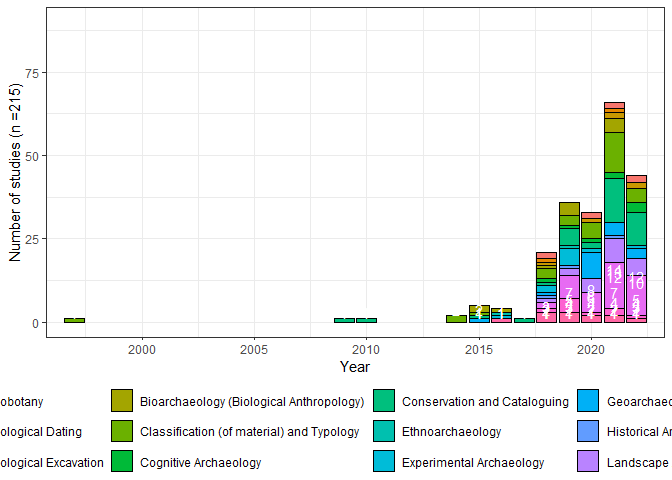
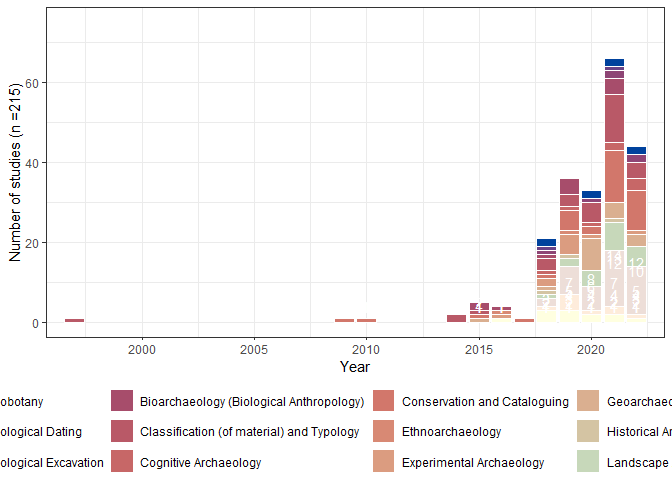
Update_09_10_2024

diff --git a/02 - Graphs.md b/02 - Graphs.md
@@ -3,8 +3,6 @@ Graphic from article
 Mathias Bellat
 July, 23, 2024
 
-**All the path and file names are personal and can no be access**
-
 # 00 Preparation
 
 ``` r
@@ -34,7 +32,7 @@ sessionInfo()
 
     ## R version 4.4.0 (2024-04-24 ucrt)
     ## Platform: x86_64-w64-mingw32/x64
-    ## Running under: Windows 11 x64 (build 22631)
+    ## Running under: Windows 10 x64 (build 19045)
     ## 
     ## Matrix products: default
     ## 
@@ -44,31 +42,32 @@ sessionInfo()
     ## [3] LC_MONETARY=French_France.utf8 LC_NUMERIC=C                  
     ## [5] LC_TIME=French_France.utf8    
     ## 
-    ## time zone: Europe/Paris
+    ## time zone: Europe/Berlin
     ## tzcode source: internal
     ## 
     ## attached base packages:
     ## [1] stats     graphics  grDevices utils     datasets  methods   base     
     ## 
     ## other attached packages:
-    ##  [1] knitr_1.47          RColorBrewer_1.1-3  rnaturalearth_1.0.1
-    ##  [4] readxl_1.4.3        tibble_3.2.1        plyr_1.8.9         
-    ##  [7] stringr_1.5.1       ggalluvial_0.12.5   ggplot2_3.5.1      
-    ## [10] readr_2.1.5         dplyr_1.1.4        
+    ##  [1] RColorBrewer_1.1-3  rnaturalearth_1.0.1 tibble_3.2.1       
+    ##  [4] plyr_1.8.9          stringr_1.5.1       ggalluvial_0.12.5  
+    ##  [7] ggplot2_3.5.1       readr_2.1.5         dplyr_1.1.4        
+    ## [10] pacman_0.5.1       
     ## 
     ## loaded via a namespace (and not attached):
     ##  [1] utf8_1.2.4         generics_0.1.3     class_7.3-22       KernSmooth_2.23-22
-    ##  [5] stringi_1.8.4      hms_1.1.3          digest_0.6.35      magrittr_2.0.3    
-    ##  [9] evaluate_0.24.0    grid_4.4.0         fastmap_1.2.0      cellranger_1.1.0  
-    ## [13] jsonlite_1.8.8     e1071_1.7-14       DBI_1.2.2          httr_1.4.7        
-    ## [17] fansi_1.0.6        scales_1.3.0       codetools_0.2-20   cli_3.6.2         
-    ## [21] rlang_1.1.3        units_0.8-5        munsell_0.5.1      withr_3.0.0       
-    ## [25] yaml_2.3.8         tools_4.4.0        tzdb_0.4.0         colorspace_2.1-0  
-    ## [29] vctrs_0.6.5        R6_2.5.1           proxy_0.4-27       lifecycle_1.0.4   
-    ## [33] classInt_0.4-10    pkgconfig_2.0.3    terra_1.7-78       pillar_1.9.0      
-    ## [37] gtable_0.3.5       glue_1.7.0         Rcpp_1.0.12        sf_1.0-16         
-    ## [41] xfun_0.45          tidyselect_1.2.1   htmltools_0.5.8.1  rmarkdown_2.27    
-    ## [45] compiler_4.4.0
+    ##  [5] stringi_1.8.4      hms_1.1.3          digest_0.6.37      magrittr_2.0.3    
+    ##  [9] evaluate_1.0.0     grid_4.4.0         fastmap_1.2.0      jsonlite_1.8.9    
+    ## [13] e1071_1.7-16       DBI_1.2.3          httr_1.4.7         fansi_1.0.6       
+    ## [17] scales_1.3.0       codetools_0.2-20   cli_3.6.3          crayon_1.5.3      
+    ## [21] rlang_1.1.4        units_0.8-5        bit64_4.5.2        munsell_0.5.1     
+    ## [25] withr_3.0.1        yaml_2.3.10        parallel_4.4.0     tools_4.4.0       
+    ## [29] tzdb_0.4.0         colorspace_2.1-1   vctrs_0.6.5        R6_2.5.1          
+    ## [33] proxy_0.4-27       lifecycle_1.0.4    classInt_0.4-10    bit_4.5.0         
+    ## [37] vroom_1.6.5        pkgconfig_2.0.3    terra_1.7-78       pillar_1.9.0      
+    ## [41] gtable_0.3.5       glue_1.7.0         Rcpp_1.0.13        sf_1.0-17         
+    ## [45] xfun_0.47          tidyselect_1.2.1   rstudioapi_0.16.0  knitr_1.48        
+    ## [49] htmltools_0.5.8.1  rmarkdown_2.28     compiler_4.4.0
 
 ## 01 Import data sets
 
@@ -77,20 +76,7 @@ sessionInfo()
 # 01.1 Import the metada infos ################################################
 
 info <- read_delim("./ML_archaeology_metadata.csv", delim = ";")
-head(info)
 ```
-
-    ## # A tibble: 6 × 9
-    ##   ID    Name         Year Authors Tittle Abstract Country of affiliati…¹ Journal
-    ##   <chr> <chr>       <dbl> <chr>   <chr>  <chr>    <chr>                  <chr>  
-    ## 1 ID001 Nguifo et …  1997 Nguifo… PLATA… The aut… FRA                    Comput…
-    ## 2 ID002 O'Sullivan…  2000 O'Sull… Agent… Agent-b… GBR                    Enviro…
-    ## 3 ID003 Amigoni an…  2009 Amigon… THE M… The app… ITA                    Applie…
-    ## 4 ID004 Boon et al…  2009 Boon, … Digit… We desc… NLD                    Interd…
-    ## 5 ID005 Toler et a…  2010 Toler-… Multi… We pres… USA                    Acm Tr…
-    ## 6 ID006 Barcelo an…  2012 Barcel… Funct… Why arc… ESP                    Medite…
-    ## # ℹ abbreviated name: ¹`Country of affiliation`
-    ## # ℹ 1 more variable: `Open Access` <chr>
 
 | ID    | Name                          | Year | Authors                                                                        | Tittle                                                                                                    | Abstract                                                                                                                                                                                                                                                                                                                                                                                                                                                                                                                                                                                                                                                                                                                                                                                                                                                                                                                                                                                                                                                                                                                                                                                                                                                                                                                                                                                                                                                                                                                                         | Country of affiliation | Journal                                        | Open Access |
 |:------|:------------------------------|-----:|:-------------------------------------------------------------------------------|:----------------------------------------------------------------------------------------------------------|:-------------------------------------------------------------------------------------------------------------------------------------------------------------------------------------------------------------------------------------------------------------------------------------------------------------------------------------------------------------------------------------------------------------------------------------------------------------------------------------------------------------------------------------------------------------------------------------------------------------------------------------------------------------------------------------------------------------------------------------------------------------------------------------------------------------------------------------------------------------------------------------------------------------------------------------------------------------------------------------------------------------------------------------------------------------------------------------------------------------------------------------------------------------------------------------------------------------------------------------------------------------------------------------------------------------------------------------------------------------------------------------------------------------------------------------------------------------------------------------------------------------------------------------------------|:-----------------------|:-----------------------------------------------|:------------|
@@ -100,23 +86,12 @@ head(info)
 | ID004 | Boon et al. 2009-1            | 2009 | Boon, Paul; van Der Maaten, Laurens; Paijmans, Hans; Postma, Eric; Lange, Guus | Digital Support for Archaeology                                                                           | We describe an interdisciplinary approach in which computer scientists develop techniques to support archaeology. In the Reading Images for the Cultural Heritage ( RICH) project, a variety of methods have been developed to support archaeologists in the visualization, categorization, and characterization of archaeological objects, such as medieval glass, coins, ceramics, and seeds. The methods are based on image processing and machine learning algorithms that are tailored to the task at hand. We describe the algorithms and illustrate their application on archaeological datasets. The virtues and pitfalls of the interdisciplinary approach to archaeology are discussed.                                                                                                                                                                                                                                                                                                                                                                                                                                                                                                                                                                                                                                                                                                                                                                                                                                                | NLD                    | Interdisciplinary Science Reviews              | No          |
 | ID005 | Toler et al. 2010             | 2010 | Toler-Franklin, C; Brown, B; Weyrich, T; Funkhouser, T; Rusinkiewicz, S        | Multi-Feature Matching of Fresco Fragments                                                                | We present a multiple-feature approach for determining matches between small fragments of archaeological artifacts such as Bronze-Age and Roman frescoes. In contrast with traditional 2D and 3D shape matching approaches, we introduce a set of feature descriptors that are based on not only color and shape, but also normal maps. These are easy to acquire and combine high data quality with discriminability and robustness to some types of deterioration. Our feature descriptors range from general-purpose to domain-specific, and are quick to compute and match. We have tested our system on three datasets of fresco fragments, demonstrating that multi-cue matching using different subsets of features leads to different tradeoffs between efficiency and effectiveness. In particular, we show that normal-based features are more effective than color-based ones at similar computational complexity, and that 3D features are more discriminative than ones based on 2D or normals, but at higher computational cost. We also demonstrate how machine learning techniques can be used to effectively combine our new features with traditional ones. Our results show good retrieval performance, significantly improving upon the match prediction rate of state-of-the-art 3D matching algorithms, and are expected to extend to general matching problems in applications such as texture synthesis and forensics.                                                                                                   | USA                    | Acm Transactions on Graphics                   | No          |
 
-Five first row of infos table
+Infos table
 
 ``` r
 # 01.2 Import the observations #################################################
 obs <- read_delim("./ML_archaeology_info.csv", delim = ";", na = "")
-head(obs)
 ```
-
-    ## # A tibble: 6 × 8
-    ##   Name                ID     Date Algorithms Architecture Field Evaluation Task 
-    ##   <chr>               <chr> <dbl> <chr>      <chr>        <chr> <chr>      <chr>
-    ## 1 Nguifo et al. 1997  ID001  1997 LEGAL      Decision Tr… Clas… Classific… Arte…
-    ## 2 O'Sullivan and Hak… ID002  2000 <NA>       <NA>         <NA>  <NA>       <NA> 
-    ## 3 Amigoni and Schiaf… ID003  2009 <NA>       <NA>         <NA>  <NA>       <NA> 
-    ## 4 Boon et al. 2009-1  ID004  2009 TiMBL      Unsupervise… Cons… Classific… Text…
-    ## 5 Boon et al. 2009-2  ID004  2009 <NA>       <NA>         Clas… Theory     Theo…
-    ## 6 Toler et al. 2010   ID005  2010 C4.5; RF;… Decision Tr… Cons… Classific… Arch…
 
 | Name                          | ID    | Date | Algorithms | Architecture                         | Field                                            | Evaluation     | Task                    |
 |:------------------------------|:------|-----:|:-----------|:-------------------------------------|:-------------------------------------------------|:---------------|:------------------------|
@@ -126,7 +101,7 @@ head(obs)
 | Boon et al. 2009-1            | ID004 | 2009 | TiMBL      | Unsupervised Learning and Clustering | Conservation and Cataloguing                     | Classification | Text Extraction         |
 | Boon et al. 2009-2            | ID004 | 2009 | NA         | NA                                   | Classification (of material) and Typology;Theory | Theory         | Theory                  |
 
-Five first row of observation table
+Observation table
 
 ``` r
 # 01.3 Remove non reviewed papers ##############################################
@@ -238,11 +213,6 @@ pub$year <- as.numeric(as.character(pub$year))
 
 # Left join df years to all years
 df1 <- join(data.frame(year = 1997:2022), pub)   
-```
-
-    ## Joining by: year
-
-``` r
 df1[is.na(df1$Freq), "Freq"] <- 0
 
 # Create the plot
@@ -296,16 +266,7 @@ plot <- ggplot() +
     legend.box.just = "left",
     legend.text = element_text(size = 11),
     legend.title = element_text(size = 12, face = "bold"))# Center the legend box
-```
 
-    ## Warning: A numeric `legend.position` argument in `theme()` was deprecated in ggplot2
-    ## 3.5.0.
-    ## ℹ Please use the `legend.position.inside` argument of `theme()` instead.
-    ## This warning is displayed once every 8 hours.
-    ## Call `lifecycle::last_lifecycle_warnings()` to see where this warning was
-    ## generated.
-
-``` r
 # Check the plot
 plot 
 ```
@@ -450,12 +411,16 @@ freq_df$year <- as.numeric(as.character(freq_df$year))
 # Convert the categories from factors to characters
 freq_df$category <- as.character(freq_df$category)
 
+# Blindfold colors
+color <- c('#00429d', '#6a4285', '#8e4575', '#a74d6b', '#b95967', '#c76767', '#d2776b', '#d88974', '#db9c80', '#daaf90', '#d4c4a3', '#c7d8ba', '#edded8', '#feecdb', '#ffffe0')
+
 # Create the plot
 plot <- ggplot(freq_df, aes(x=year, y=Freq, fill = category)) +
-  geom_bar(stat = "identity", colour="black") +
-  geom_text(aes(label = Freq), vjust = 0, col = "white")+
+  geom_bar(stat = "identity", colour="white", width= 0.9, cex = 0.1) +
+  geom_text(aes(x=year, y = Freq, label = Freq), vjust = -0.5, col = "white")+
+  scale_fill_manual(values = color) + # Apply the custom color palette
   labs(x = "Year", y = paste0("Number of studies (n =", sum(freq_df$Freq),")"), fill = "Archaeological categories") +
-  coord_cartesian(xlim =c(1997, 2022), ylim = c(0, 90)) +
+  coord_cartesian(xlim =c(1997, 2022), ylim = c(0, 75)) +
   theme_bw()+
   theme(legend.position="bottom", legend.box="vertical", legend.margin=margin()) 
 
@@ -536,10 +501,18 @@ full_second[,5][full_second[,5] == "Theory"] <- NA
 final <- full_second[complete.cases(full_second[,5]), ]
 
 # 03.7 Merge all for a frequency table #########################################
+first.alluvial <- full_first[,1:4]
+colnames(first.alluvial) <- c("Author", "Architecture","Evaluation","Task")
+
 row.names(final) <- 1:nrow(final)
 colnames(final) <- c("Author", "Architecture","Evaluation","Task", "Category")
 write.csv(final, "./Export/final_infos.csv", fileEncoding = "UTF-8")
+```
 
+Here repeat the steps 3.9 - 3.11 with both final and first.alluvial
+data.
+
+``` r
 # 03.9 Remove under represented tasks ##########################################
 final <- as.data.frame(final)
 frequency_table <- table(final$Task)
@@ -594,9 +567,11 @@ frequency <- frequency_df[frequency_df$Freq > 0,]
 colnames(frequency) <- c("Evaluation","Category","Task","Architecture","freq")
 save(list = c("full","final","frequency"), file = "./Export/AlluvialGraph.RData")
 rm(list = ls())
+```
 
+``` r
 # 03.13 Plot the alluvial diagramm #############################################
-load("./Export/AlluvialGraph.RData")
+load("./Export/FirstAlluvialGraph.RData")
 
 # Plot from Task to Architecture with Eval in background
 plot <- ggplot(data = frequency,
@@ -617,14 +592,7 @@ plot <- ggplot(data = frequency,
 plot
 ```
 
-    ## Warning in to_lodes_form(data = data, axes = axis_ind, discern =
-    ## params$discern): Some strata appear at multiple axes.
-    ## Warning in to_lodes_form(data = data, axes = axis_ind, discern =
-    ## params$discern): Some strata appear at multiple axes.
-    ## Warning in to_lodes_form(data = data, axes = axis_ind, discern =
-    ## params$discern): Some strata appear at multiple axes.
-
-![](02---Graphs_files/figure-gfm/alluvial%20diagram-1.png)<!-- -->
+![](02---Graphs_files/figure-gfm/alluvial%20plot%20hide-1.png)<!-- -->
 
 ``` r
 ggsave("./Export/Graph/Figure_05.png", plot = plot, width = 16, height = 10, units = "in", dpi = 600)
@@ -651,21 +619,14 @@ plot <- ggplot(data = frequency,
 plot
 ```
 
-    ## Warning in to_lodes_form(data = data, axes = axis_ind, discern =
-    ## params$discern): Some strata appear at multiple axes.
-    ## Warning in to_lodes_form(data = data, axes = axis_ind, discern =
-    ## params$discern): Some strata appear at multiple axes.
-    ## Warning in to_lodes_form(data = data, axes = axis_ind, discern =
-    ## params$discern): Some strata appear at multiple axes.
-
-![](02---Graphs_files/figure-gfm/alluvial%20diagram%20bis-1.png)<!-- -->
+![](02---Graphs_files/figure-gfm/alluvial%20plot%20second%20hide-1.png)<!-- -->
 
 ``` r
 ggsave("./Export/Graph/Figure_06.png", plot = plot, width = 16, height = 10, units = "in", dpi = 600)
 ggsave("./Export/Graph/Figure_06.pdf", plot = plot, width = 16, height = 10, units = "in")
 ```
 
-# 03.1 Additionnal alluvial diagramm
+# 03.1 Additionnal alluvial diagram
 
 ``` r
 plot <- ggplot(data = frequency,
@@ -684,12 +645,3 @@ scale_x_discrete(limits = c("Task","Architecture","Evaluation"),
 
 plot
 ```
-
-    ## Warning in to_lodes_form(data = data, axes = axis_ind, discern =
-    ## params$discern): Some strata appear at multiple axes.
-    ## Warning in to_lodes_form(data = data, axes = axis_ind, discern =
-    ## params$discern): Some strata appear at multiple axes.
-    ## Warning in to_lodes_form(data = data, axes = axis_ind, discern =
-    ## params$discern): Some strata appear at multiple axes.
-
-![](02---Graphs_files/figure-gfm/alluvial%20diagram%20optional-1.png)<!-- -->
